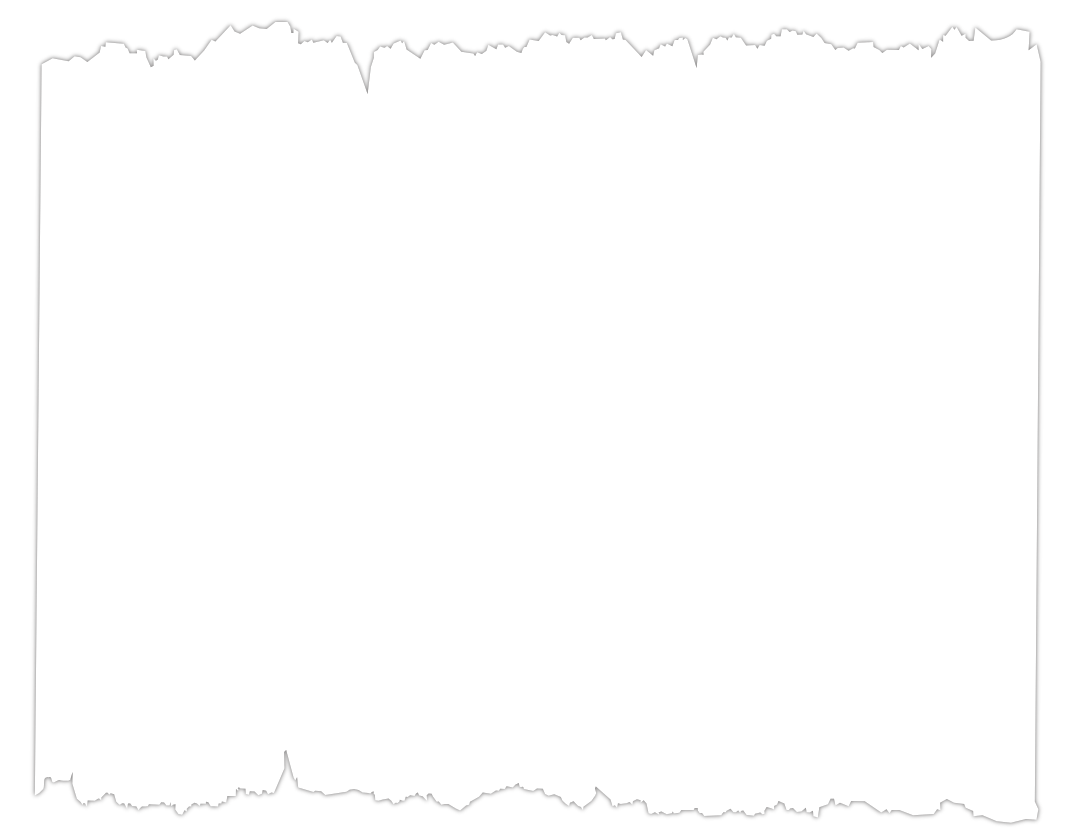
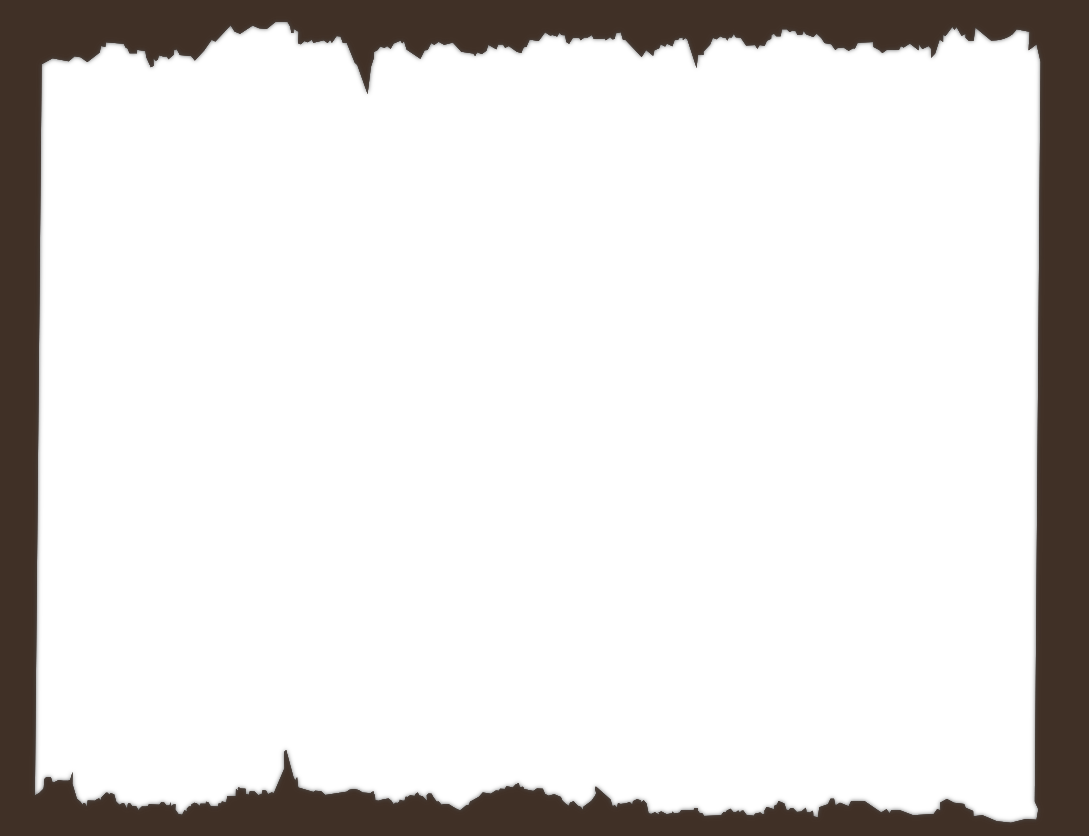
More visual tweaks.

Changed region(s): [[0.0, 0.0, 1.0, 1.0]]

diff --git a/src/app/components/main/main.component.html b/src/app/components/main/main.component.html
@@ -7,11 +7,12 @@
 
     <app-gallery></app-gallery>
 
+    <!--
     <div class="info">
         <p *ngIf="!content">
             <i>The map is interactive. Zoom, pan, and click the markers.</i>
         </p>
-    </div>
+    </div>-->
 </div>
 
 

diff --git a/src/app/components/main/main.component.css b/src/app/components/main/main.component.css
@@ -5,7 +5,7 @@
     width: 100vw;
     max-width: 1050px;
     position: relative;
-    background-color: white;
+    background-color: transparent;
     padding-bottom: 90px;
 }
 
